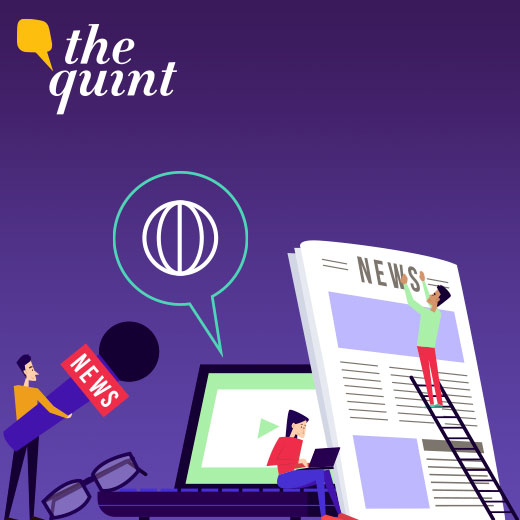
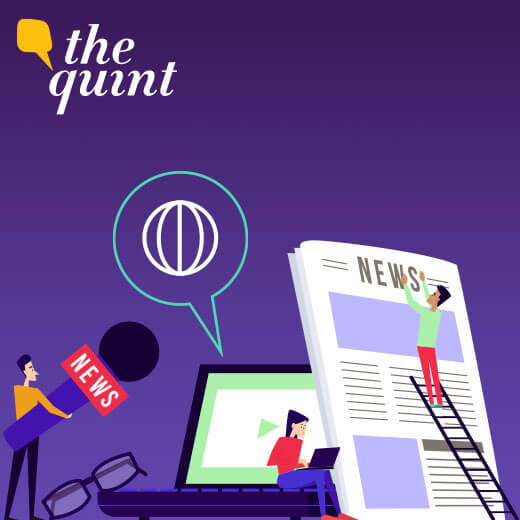
Compressed images and updated meta

diff --git a/public/index.html b/public/index.html
@@ -1,52 +1,53 @@
 <!DOCTYPE html>
 <html lang="en">
-  <head>
-    <meta charset="utf-8" />
-    <link rel="icon" href="%PUBLIC_URL%/favicon.ico" />
-    <meta name="viewport" content="width=device-width, initial-scale=1" />
-    <meta name="theme-color" content="#000000" />
-    <meta
-      name="description"
-      content="Web site created using create-react-app"
-    />
-    <link rel="apple-touch-icon" href="%PUBLIC_URL%/logo192.png" />
-    <!--
-      manifest.json provides metadata used when your web app is installed on a
-      user's mobile device or desktop. See https://developers.google.com/web/fundamentals/web-app-manifest/
-    -->
-    <link rel="manifest" href="%PUBLIC_URL%/manifest.json" />
-    <!--
-      Notice the use of %PUBLIC_URL% in the tags above.
-      It will be replaced with the URL of the `public` folder during the build.
-      Only files inside the `public` folder can be referenced from the HTML.
+<head>
+<meta charset="utf-8" />
+<link rel="icon" href="%PUBLIC_URL%/favicon.ico" />
+<meta name="viewport" content="width=device-width, initial-scale=1" />
+<title>Shahadat Hussain || Front-end Developer From New Delhi India.</title>
+<meta name="theme-color" content="#0a192f">
+<meta name="MobileOptimized" content="320">
+<meta name="HandheldFriendly" content="True">
+<meta name="mobile-web-app-capable" content="yes">
+<meta http-equiv="X-UA-Compatible" content="IE=edge">
+<meta name="format-detection" content="telephone=no">
+<meta name="apple-mobile-web-app-capable" content="yes">
+<meta name="apple-mobile-web-app-status-bar-style" content="black-translucent">
+<meta name="apple-mobile-web-app-title" content="Shahadat Hussain - Front-end Developer From New Delhi India.">
 
-      Unlike "/favicon.ico" or "favicon.ico", "%PUBLIC_URL%/favicon.ico" will
-      work correctly both with client-side routing and a non-root public URL.
-      Learn how to configure a non-root public URL by running `npm run build`.
-    -->
-    <!-- Google Analytics -->
-    <script async src="https://www.googletagmanager.com/gtag/js?id=UA-134427958-1"></script>
-    <script>
-        window.dataLayer = window.dataLayer || [];
-        function gtag(){dataLayer.push(arguments);}
-        gtag('js', new Date());
+<meta name="description" content="I have diverse experience as I have worked with agencies and brands dealing in different industries. This includes Enterprise software companies, eCommerce, Media houses, Branding and Advertising agencies. Each has its own set of challenges and learnings. This has enabled me to venture into unknown territories without much thought."/>
+<meta name="author" content="Shahadat Hussain">
+<meta name="copyright" content="uilab">
+<link rel="canonical" href="https://uilab.in/">
 
-        gtag('config', 'UA-134427958-1');
-    </script>
-    <title>React App</title>
+<link rel="apple-touch-icon" href="%PUBLIC_URL%/logo192.png" />
+<!--
+manifest.json provides metadata used when your web app is installed on a
+user's mobile device or desktop. See https://developers.google.com/web/fundamentals/web-app-manifest/
+-->
+<link rel="manifest" href="%PUBLIC_URL%/manifest.json" />
+<!--
+Notice the use of %PUBLIC_URL% in the tags above.
+It will be replaced with the URL of the `public` folder during the build.
+Only files inside the `public` folder can be referenced from the HTML.
+
+Unlike "/favicon.ico" or "favicon.ico", "%PUBLIC_URL%/favicon.ico" will
+work correctly both with client-side routing and a non-root public URL.
+Learn how to configure a non-root public URL by running `npm run build`.
+-->
+<!-- Google Analytics -->
+<script async src="https://www.googletagmanager.com/gtag/js?id=UA-134427958-1"></script>
+<script>
+  window.dataLayer = window.dataLayer || [];
+  function gtag(){
+    dataLayer.push(arguments);
+  }
+  gtag('js', new Date());
+  gtag('config', 'UA-134427958-1');
+</script>
   </head>
   <body>
     <noscript>You need to enable JavaScript to run this app.</noscript>
     <div id="root"></div>
-    <!--
-      This HTML file is a template.
-      If you open it directly in the browser, you will see an empty page.
-
-      You can add webfonts, meta tags, or analytics to this file.
-      The build step will place the bundled scripts into the <body> tag.
-
-      To begin the development, run `npm start` or `yarn start`.
-      To create a production bundle, use `npm run build` or `yarn build`.
-    -->
   </body>
 </html>
